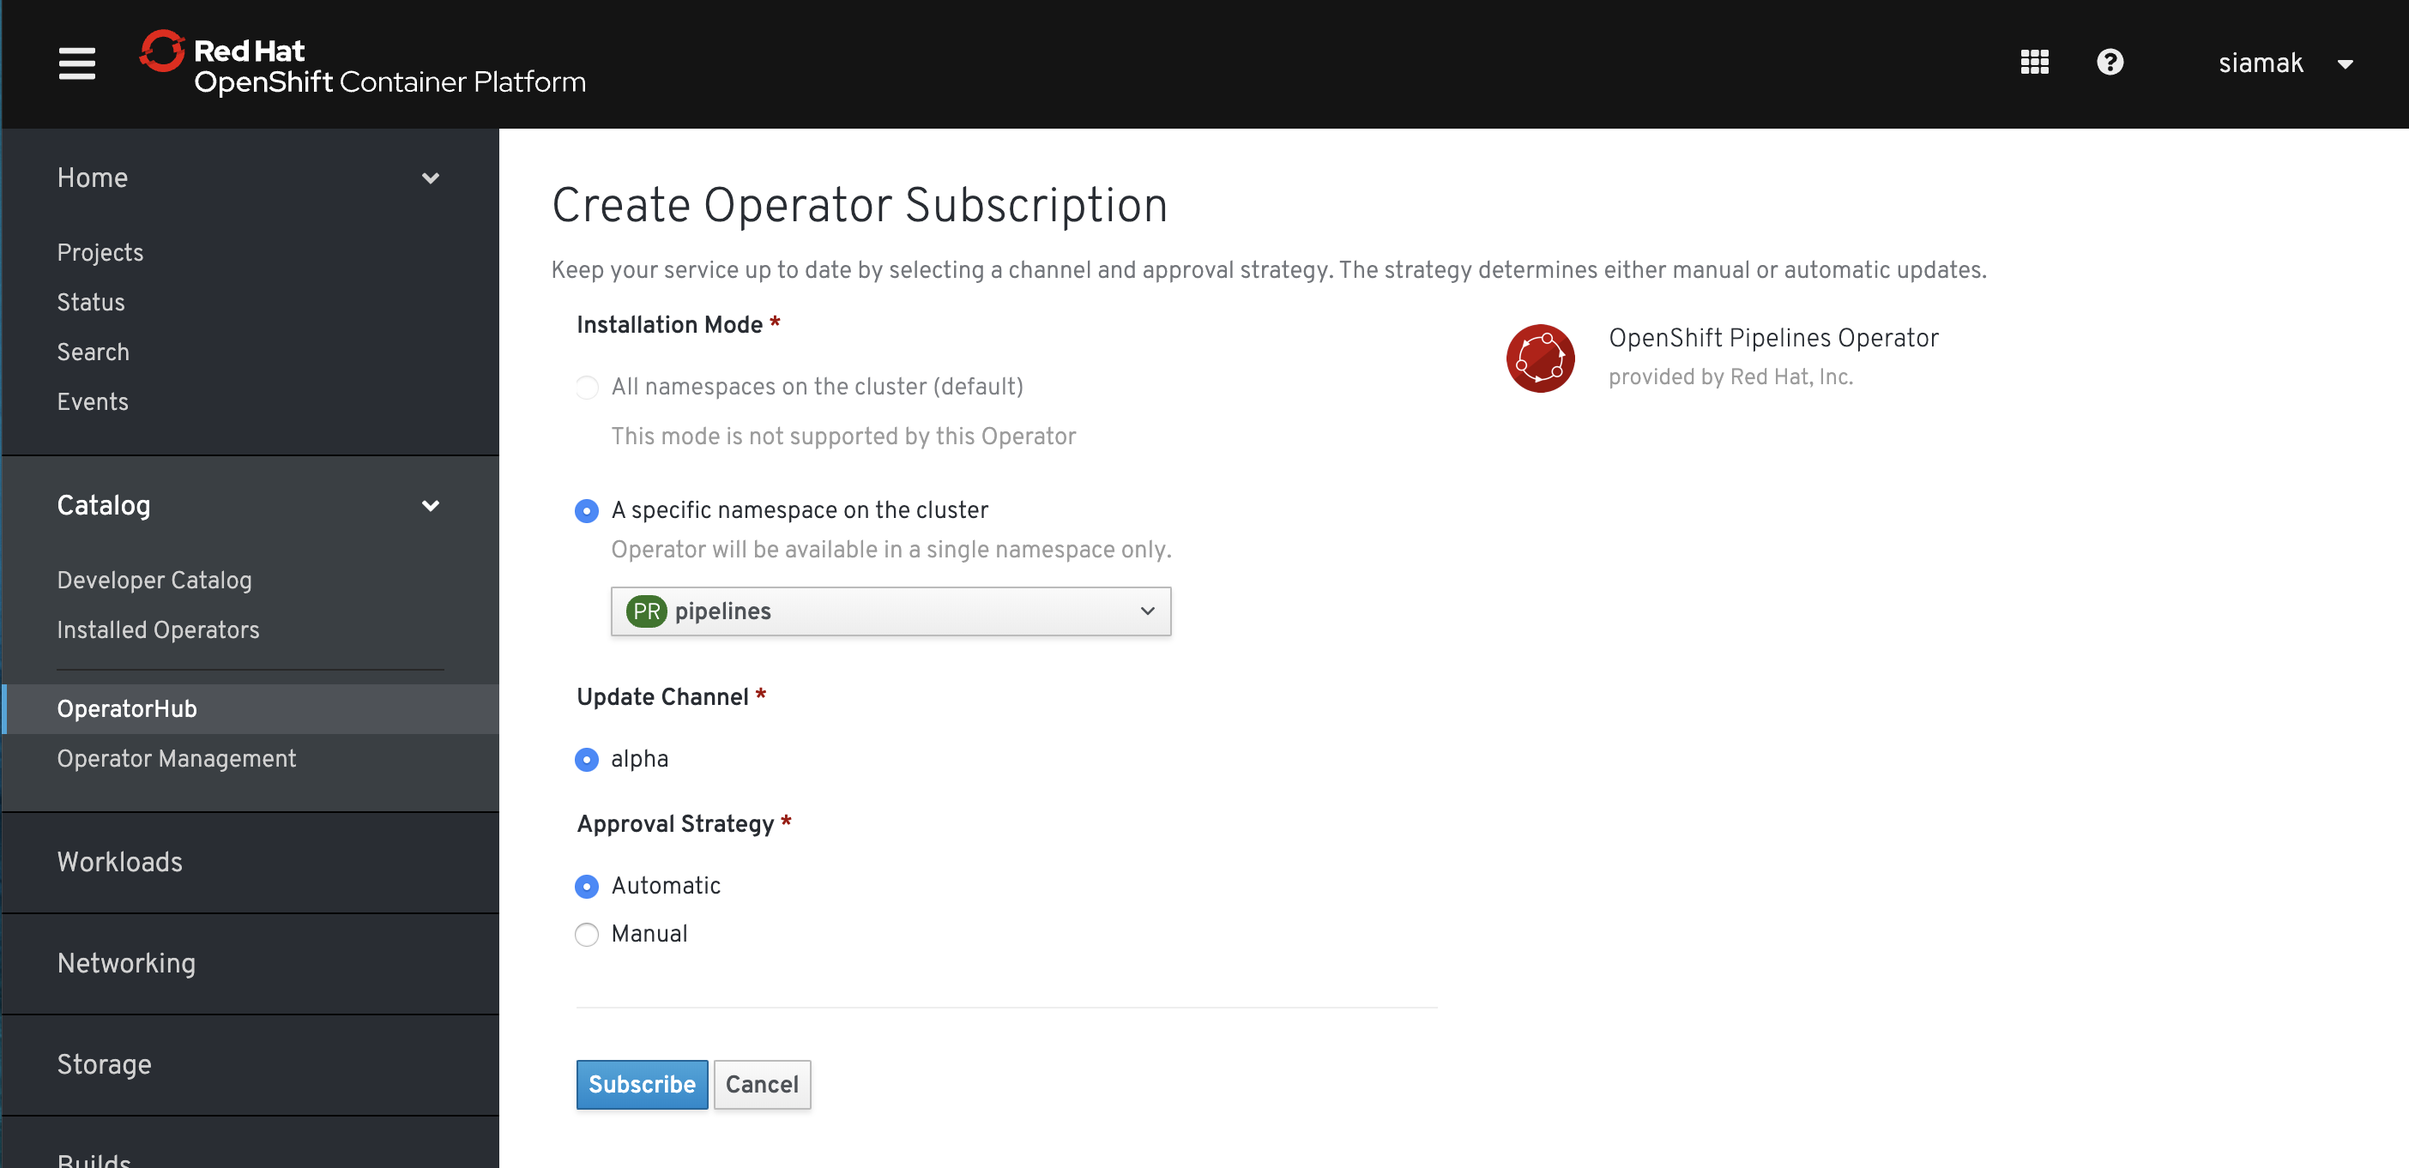
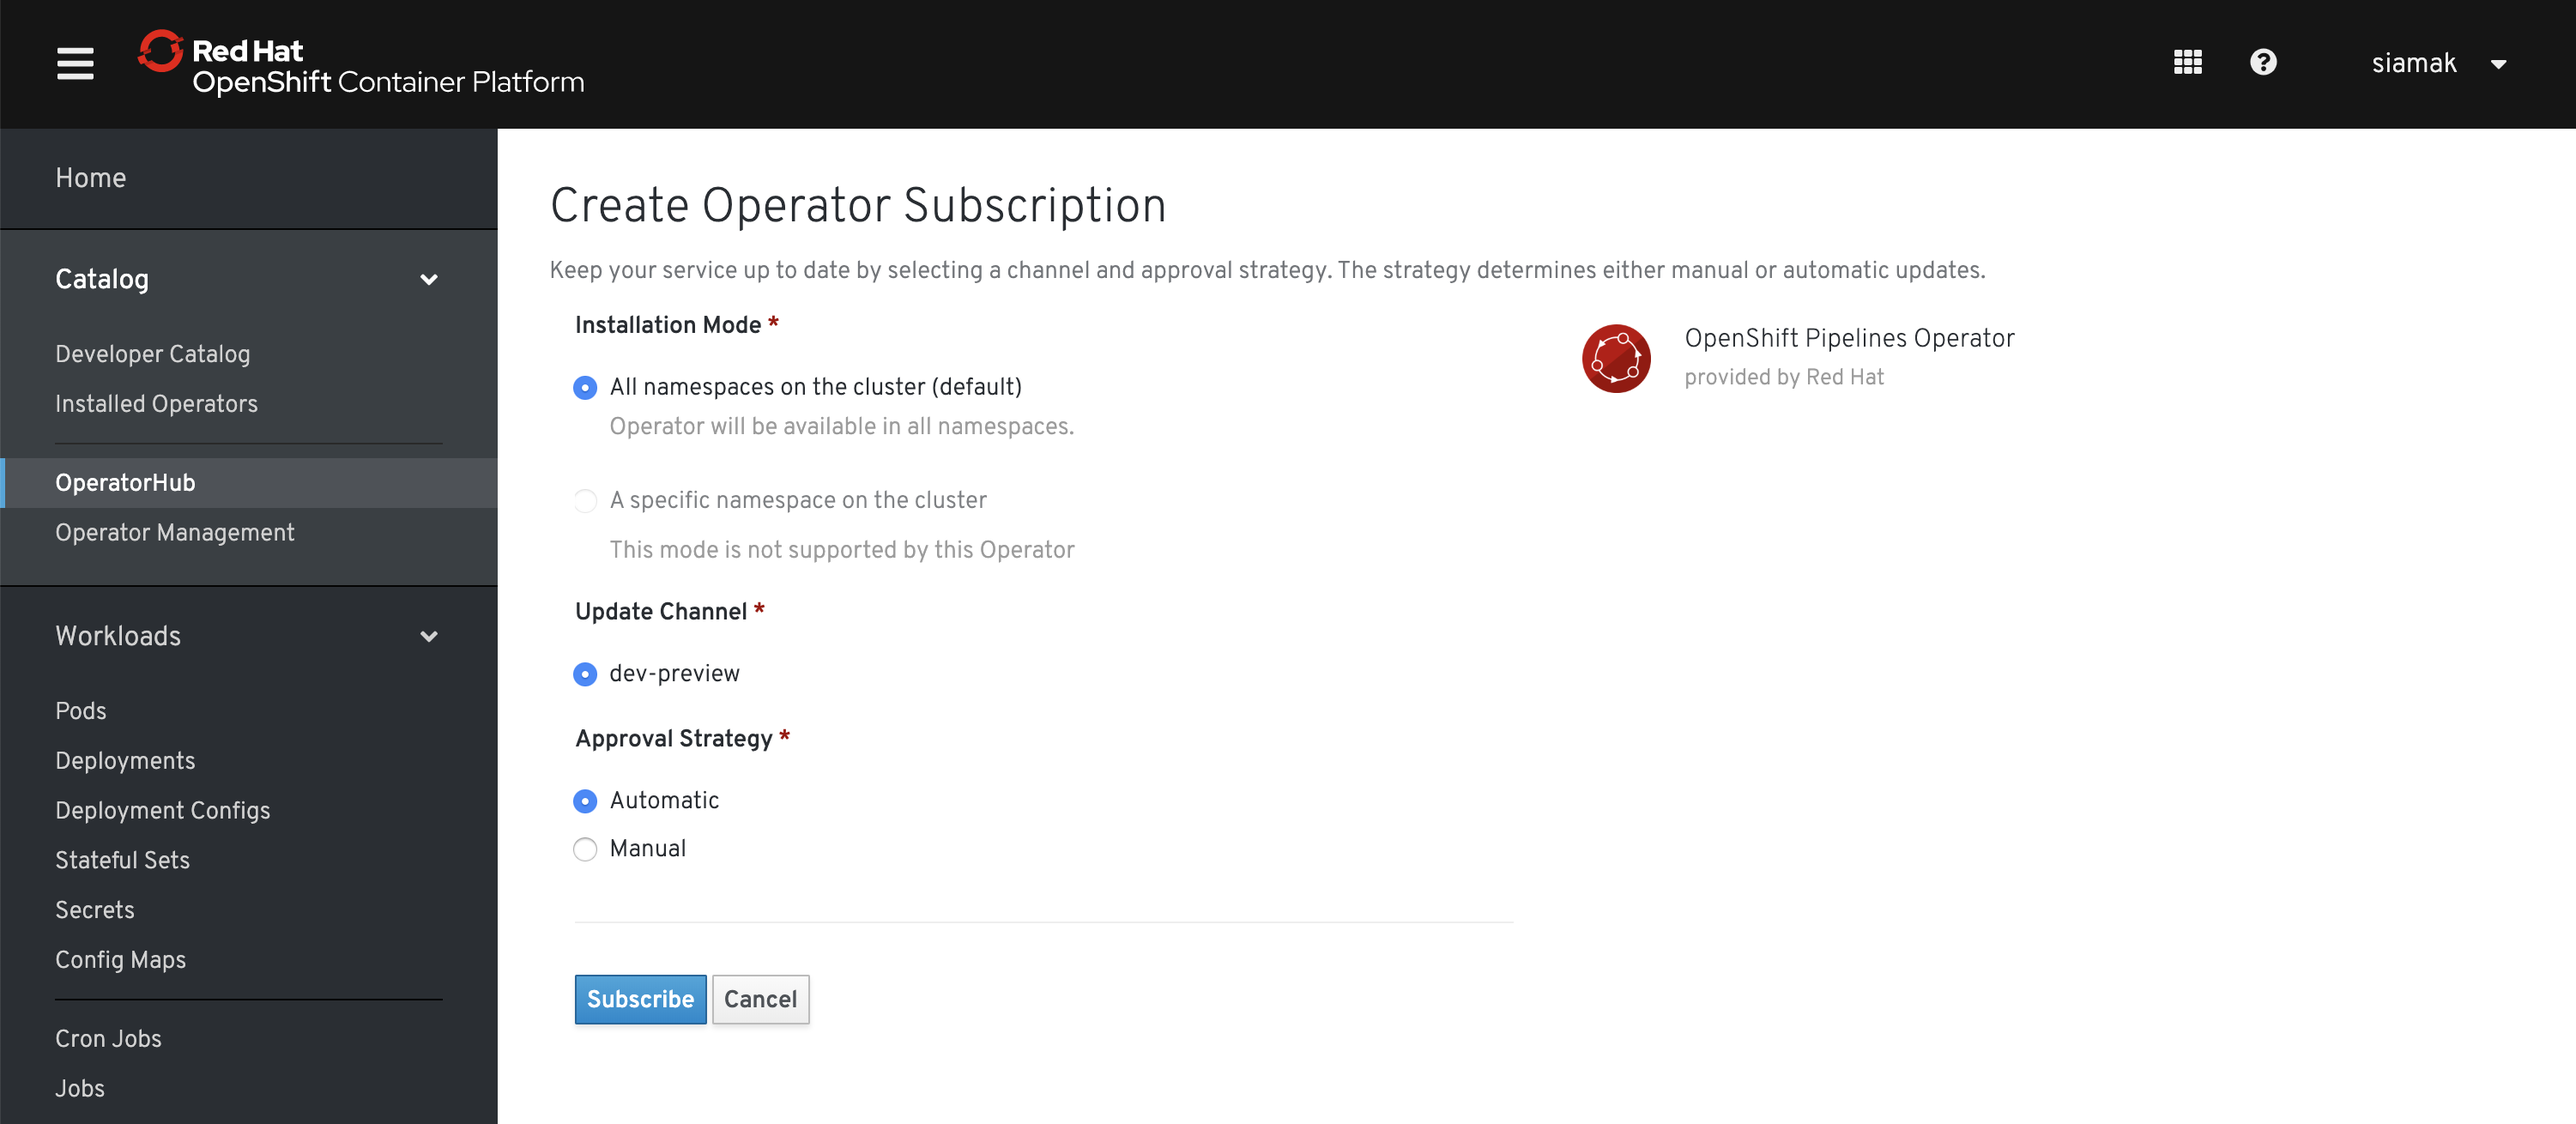
Updated tutorial with new operator flow and CLI commands

diff --git a/README.md b/README.md
@@ -6,7 +6,7 @@ OpenShift Pipelines is a cloud-native, continuous integration and delivery (CI/C
 
 OpenShift Pipelines features:
   * Standard CI/CD pipeline definition based on Tekton
-  * Build images with Kubernetes tools such as `S2I`, `Buildah`, `Buildpacks`, `Kaniko`, etc
+  * Build images with Kubernetes tools such as S2I, Buildah, Buildpacks, Kaniko, etc
   * Deploy applications to multiple platforms such as Kubernetes, serverless and VMs
   * Easy to extend and integrate with existing tools
   * Scale pipelines on-demand
@@ -63,15 +63,15 @@ OpenShift Pipelines is provided as an add-on on top of OpenShift that can be ins
 Create a project for the sample application that you will be using in this tutorial:
 
 ```bash
-oc new-project pipelines-tutorial
+$ oc new-project pipelines-tutorial
 ```
 
-Building container images using build tools such as `S2I`, `Buildah`, `Kaniko`, etc require privileged access to the cluster. OpenShift default security settings do not allow privileged containers unless specifically configured. Create a service account for running pipelines and enable it to run privileged pods for building images:
+Building container images using build tools such as S2I, Buildah, Kaniko, etc require privileged access to the cluster. OpenShift default security settings do not allow privileged containers unless specifically configured. Create a service account for running pipelines and enable it to run privileged pods for building images:
 
 ```
-oc create serviceaccount pipeline
-oc adm policy add-scc-to-user privileged -z pipeline
-oc adm policy add-role-to-user edit -z pipeline
+$ oc create serviceaccount pipeline
+$ oc adm policy add-scc-to-user privileged -z pipeline
+$ oc adm policy add-role-to-user edit -z pipeline
 ```
 
 You will use the [Spring PetClinic](https://github.com/spring-projects/spring-petclinic) sample application during this tutorial, which is a simple Spring Boot application.
@@ -79,7 +79,7 @@ You will use the [Spring PetClinic](https://github.com/spring-projects/spring-pe
 Create the Kubernetes objects for deploying the PetClinic app on OpenShift. The deployment will not complete since there are no container images built for the PetClinic application yet. That you will do in the following sections through a CI/CD pipeline:
 
 ```bash
-oc create -f https://raw.githubusercontent.com/openshift/pipelines-tutorial/master/resources/petclinic.yaml
+$ oc create -f https://raw.githubusercontent.com/openshift/pipelines-tutorial/master/resources/petclinic.yaml
 ```
 
 You should be able to see the deployment in the OpenShift Web Console.
@@ -128,6 +128,7 @@ You can take a look at the list of install `task`s using the [Tekton CLI](https:
 
 ```
 $ tkn task ls
+
 NAME               AGE
 openshift-client   58 seconds ago
 s2i-java-8         1 minute ago
@@ -147,7 +148,7 @@ Here is the YAML file that represents the above pipeline:
 apiVersion: tekton.dev/v1alpha1
 kind: Pipeline
 metadata:
-  name: deploy-pipeline
+  name: petclinic-deploy-pipeline
 spec:
   resources:
   - name: app-git
@@ -191,7 +192,7 @@ The execution order of `task`s is determined by dependencies that are defined be
 Create the pipeline by running the following:
 
 ```bash
-oc create -f https://raw.githubusercontent.com/openshift/pipelines-tutorial/master/resources/deploy-pipeline.yaml
+$ oc create -f https://raw.githubusercontent.com/openshift/pipelines-tutorial/master/resources/petclinic-deploy-pipeline.yaml
 ```
 
 Alternatively, in the OpenShift web console, you can click on **Add &#8594; Import YAML** at the top right of the screen while you are in the **pipelines-tutorial** project, paste the YAML into the textfield, and click on **Create**.
@@ -205,8 +206,9 @@ Check the list of pipelines you have created using the CLI:
 
 ```
 $ tkn pipeline ls
-NAME             AGE              LAST RUN   STARTED   DURATION   STATUS
-deploy-pipeline  25 seconds ago   ---        ---       ---        ---
+
+NAME                       AGE              LAST RUN   STARTED   DURATION   STATUS
+petclinic-deploy-pipeline  25 seconds ago   ---        ---       ---        ---
 ```
 
 ## Trigger Pipeline
@@ -246,56 +248,60 @@ spec:
 Create the above pipeline resources via the OpenShift web console or by running the following:
 
 ```bash
-oc create -f https://raw.githubusercontent.com/openshift/pipelines-tutorial/master/resources/petclinic-resources.yaml
+$ oc create -f https://raw.githubusercontent.com/openshift/pipelines-tutorial/master/resources/petclinic-resources.yaml
 ```
 
-A `PipelineRun` is how you can trigger a pipeline and tie it to the Git and image resources that should be used for this specific invocation:
-
-```yaml
-apiVersion: tekton.dev/v1alpha1
-kind: PipelineRun
-metadata:
-  generateName: petclinic-deploy-pipelinerun-
-spec:
-  pipelineRef:
-    name: deploy-pipeline
-  trigger:
-    type: manual
-  serviceAccount: 'pipeline'
-  resources:
-  - name: app-git
-    resourceRef:
-      name: petclinic-git
-  - name: app-image
-    resourceRef:
-      name: petclinic-image
-```
-
-Trigger the `Pipeline` to deploy the Spring PetClinic app by entering the `PipelineRun` YAML definition above into the web console or run the command below:
+You can see the list of resources created using the CLI:
 
 ```bash
-oc create -f https://raw.githubusercontent.com/openshift/pipelines-tutorial/master/resources/petclinic-deploy-pipelinerun.yaml
+$ tkn resource ls
+
+NAME              TYPE    DETAILS
+petclinic-git     git     url: https://github.com/spring-projects/spring-petclinic
+petclinic-image   image   url: image-registry.openshift-image-registry.svc:5000/pipelines-tutorial/spring-petclinic
 ```
 
-The pipeline is then instantiated and pods are created to execute the tasks that are defined in the pipeline. After a few minutes, the pipeline should finish successfully.
+A `PipelineRun` is how you can start a pipeline and tie it to the Git and image resources that should be used for this specific invocation. You can start the pipeline using the CLI:
+
+```bash
+$ tkn pipeline start petclinic-deploy-pipeline \
+        -r app-git=petclinic-git \
+        -r app-image=petclinic-image \
+        -s pipeline
+
+Pipelinerun started: petclinic-deploy-pipeline-run-q62p8
+```
+
+The `-r` flag specifies the `PipelineResource`s that should be provided to the pipeline and the `-s` flag specifies the service account to be used for running the pipeline. 
+
+As soon as you started the `petclinic-deploy-pipeline` pipeline, a pipelinerun is instantiated and pods are created to execute the tasks that are defined in the pipeline. 
+
+```bash
+$ tkn pr list 
+
+NAME                                  STARTED          DURATION   STATUS    
+petclinic-deploy-pipeline-run-q62p8   57 seconds ago   ---        Running
+```
+
+Check out the logs of the pipelinerun as it runs using the following CLI command:
 
 ```
-# tkn pr ls
-NAME                                 STARTED         DURATION    STATUS
-petclinic-deploy-pipelinerun-lkq7d   7 minutes ago   3 minutes   Succeeded
-```
+$ tkn pr logs petclinic-deploy-pipeline-run-q62p8 -f
 
-Check the pipelinerun logs as it executes:
 
-```
-$ tkn pr logs petclinic-deploy-pipelinerun-lkq7d -f
 ...
+[build : nop] Build successful
+[deploy : build-step-oc] deploymentconfig.apps.openshift.io/spring-petclinic rolled out
+[deploy : nop] Build successful
+```
 
-[s2i-java-8 : nop] Build successful
+After a few minutes, the pipeline would finish successfully.
 
-[openshift-client : oc] deploymentconfig.apps.openshift.io/spring-petclinic rolled out
+```bash
+$ tkn pipeline list 
 
-[openshift-client : nop] Build successful
+NAME                        AGE             LAST RUN                              STARTED         DURATION    STATUS
+petclinic-deploy-pipeline   7 minutes ago   petclinic-deploy-pipeline-run-q62p8   5 minutes ago   4 minutes   Succeeded
 ```
 
 Looking back at the project, you should see that the PetClinic image is successfully built and deployed.

diff --git a/install-operator.md b/install-operator.md
@@ -2,9 +2,7 @@
 
 OpenShift Pipelines is provided as an add-on on top of OpenShift that can be installed via an operator that is available in the OpenShift OperatorHub.
 
-Create a project called `pipelines` by clicking on **Projects > Create Project** in the web console. Alternatively, you can use `oc` or `kubectl` to create the project.
-
-Go to **Catalog > OperatorHub** in the web console. You can see the list of available operators for OpenShift provided by Red Hat as well as a community of partners and open-source projects.
+Go to **Catalog > OperatorHub** in the Web Console. You can see the list of available operators for OpenShift, provided by Red Hat as well as a community of partners and open-source projects. 
 
 Click on **Integration & Delivery** category to find **OpenShift Pipeline Operator**.
 
@@ -14,7 +12,7 @@ Click on **OpenShift Pipelines Operator**, **Continue**, and then **Install**
 
 ![OpenShift Pipelines Operator](images/operator-install-1.png)
 
-Leave the default values in order to install the operator in the `pipelines` project, and click on **Subscribe** in order to subscribe to the installation and update channels.
+Click on **Subscribe** in order to subscribe to the installation and update channels.
 
 ![OpenShift Pipelines Operator](images/operator-install-2.png)
 
@@ -23,13 +21,5 @@ The operator is installed when you see the status updated from `1 installing` to
 Click on `1 installed` to go to the installed operator in order to install OpenShift Pipelines.
 
 ![OpenShift Pipelines Operator](images/operator-install-3.png)
-
-Now that the operator is installed, you can click on **Create New** on **OpenShift Pipelines Install** in order to install OpenShift Pipelines.
-
-![OpenShift Pipelines Operator](images/operator-install-4.png)
-
-You can leave the example `Install` CR as is and click on **Create**.
-
-![OpenShift Pipelines Operator](images/operator-install-5.png)
 
 That's all. The operator now installs OpenShift Pipelines on the cluster.
